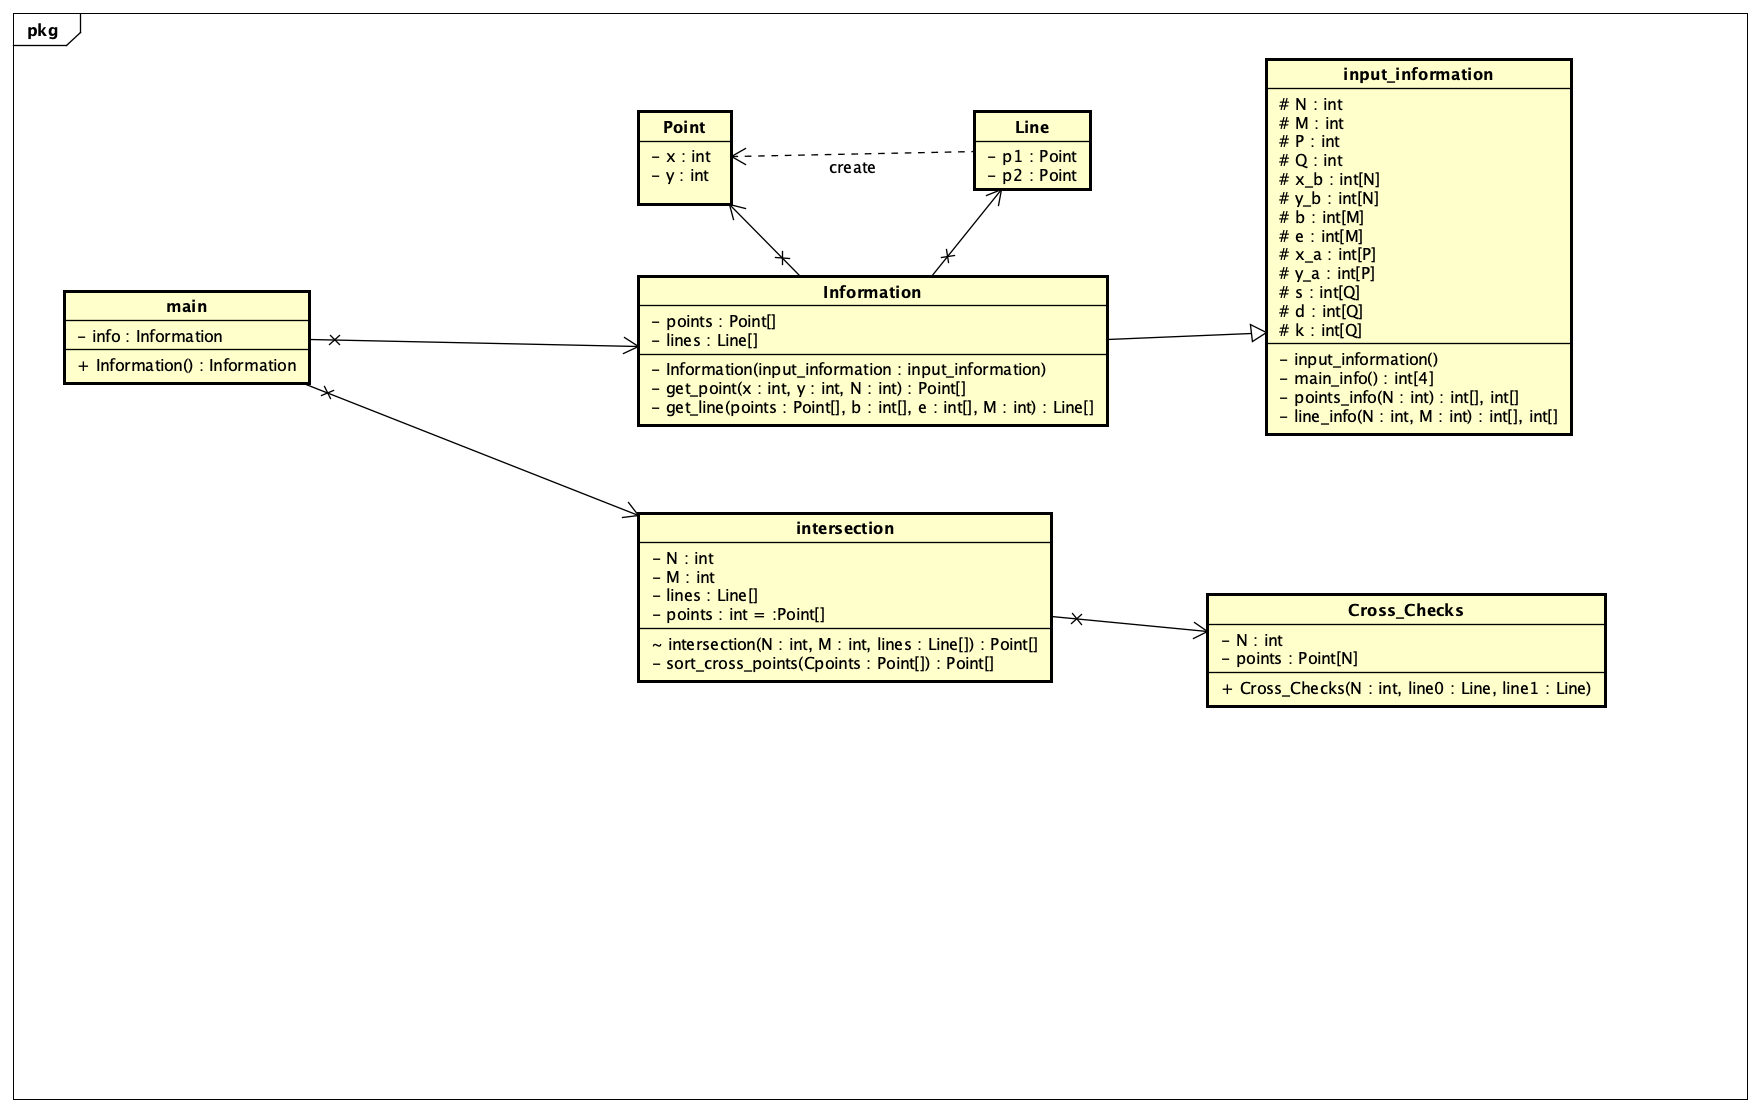
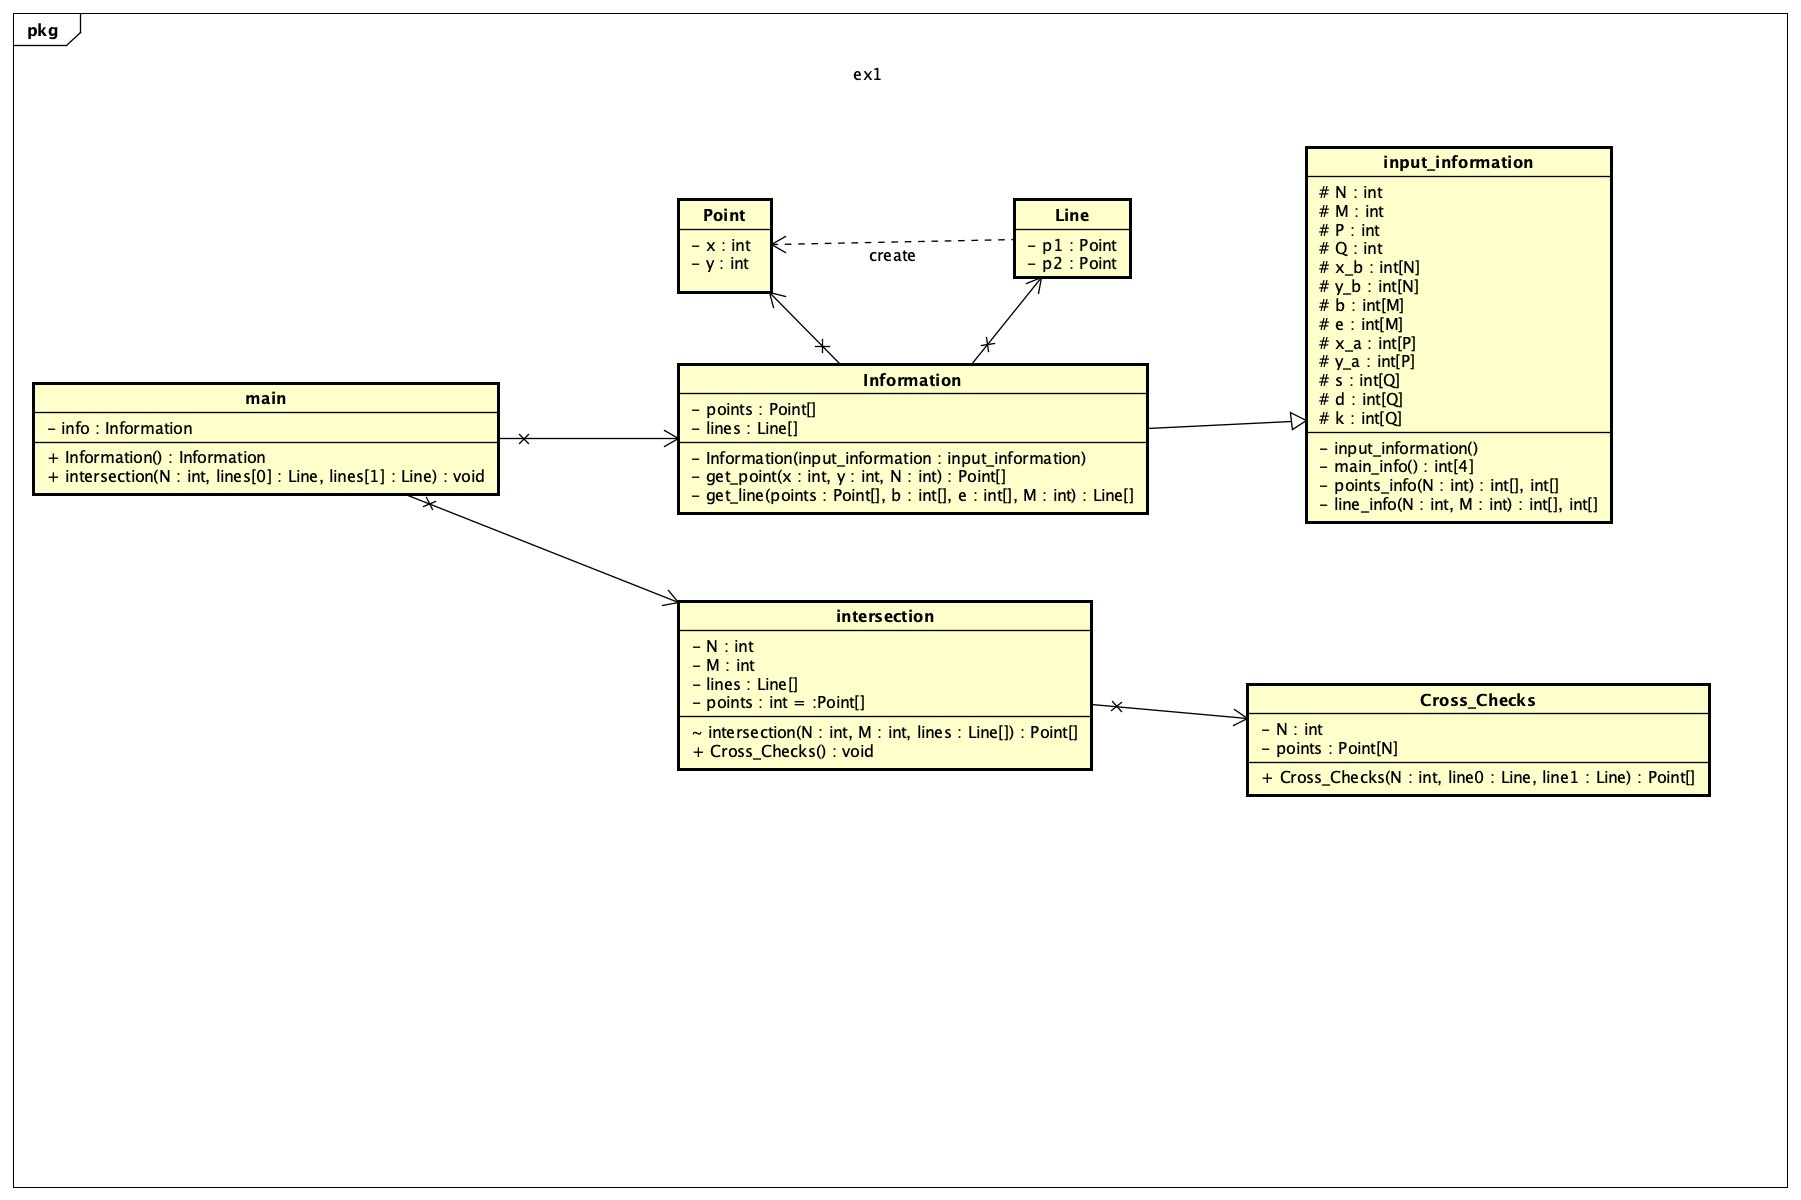
ブランチex1: ex1にもう一度、完成したプログラムとクラス図をアップロードしました。

diff --git a/src/intersection.py b/src/intersection.py
@@ -15,86 +15,12 @@ import Cross_Checks
 import Point
 import Line
 
-def quickSort(A, p, r):
-    if p < r:
-        q = partition(A, p, r)
-        quickSort(A, p, q - 1)
-        quickSort(A, q+1, r)
-
-    return A
-def partition(A, p, r):
-    x = A[r]
-    i = p-1
-    for j in range(p, r): # p to r-1
-        if A[j] <= x:
-            i += 1
-            # change
-            tmp = A[i]
-            A[i] = A[j]
-            A[j] = tmp
-        # already, devided
-    #change
-    tmp = A[i+1]
-    A[i+1] = A[r]
-    A[r] = tmp
-
-    return i+1
 
 
 class intersection:
     # make the Cross Points
-    def intersection(N, M ,lines):
-        Cpoints = [] # Cross Points
-        for i in range(0, M-1):
-            for j in range(i+1, M):
-                check = Cross_Checks.Cross_Checks.Cross_Checks(N, lines[i], lines[j])
-                if check is None:
-                    continue
-                Cpoints.append(check) # for assignment 1
-
-        # sort and return
-        Cpoints = intersection.sort_cross_points(Cpoints)
-        return Cpoints
-
-    # Sort to x orders
-    @classmethod
-    def sort_cross_points(self, Cpoints):
-        # sort by a element x
-        Cpoints = intersection.sort_by_X(Cpoints)
-        #Cpoints = intersection.sort_by_Y(Cpoints)
-
-        return Cpoints
-
-    # a part of sort_cross_points, sort by x
-    @classmethod
-    def sort_by_X(self, Cpoints):
-        # get x info
-        X = []
-        for i in range(len(Cpoints)):
-            X.append(Cpoints[i].x)
-
-        # sort X
-        X = quickSort(X, 0, len(X)-1)
-
-        # adjust X to Cpoints
-        fixed_points = []
-        for i in range(len(Cpoints)):
-            for j in range(len(X)):
-                if X[i] == Cpoints[j].x:
-                    fixed_points.append(Cpoints[j])
-
-        return fixed_points
-    def sort_by_Y(self, Cpoints):
-        # get y info
-        Y = []
-        for i in range(len(Cpoints)):
-            Y.append(Cpoints.y)
-
-        for i in range(len(Cpoints)):
-            c = False
-            if Cpoints[i].x == Cpoints[i+1].x:
-                c = True
-
+    def intersection(N, line1, line2):
+         Cross_Checks.Cross_Checks.Cross_Checks(N, line1, line2)
 
 
 
@@ -120,8 +46,5 @@ if __name__ == '__main__':
     lines.append(Line.Line(p2, p5)) #3
 
 
-    points = intersection.intersection(N, M, lines)
-    for i in range(len(points)):
-        print(points[i].x, points[i].y)
-
-        """
+    intersection.intersection(N, lines[0], lines[2])
+"""

diff --git a/src/Cross_Checks.py b/src/Cross_Checks.py
@@ -5,9 +5,11 @@
         line0 and line1 intersect or not
                                             """
 import Line
+# only for debug
+import Point
 
 class Cross_Checks:
-    def __init__(self, N, line0, line1):
+    def Cross_Checks( N, line0, line1):
             intersection = False #judge intersection
             if N == 3: # when N = 3, no intersection
                 print("NA")

diff --git a/src/main.py b/src/main.py
@@ -3,4 +3,5 @@ import intersection
 
 if __name__ == '__main__':
     info = information.information()
-    intersection.intersection(info.N, info.lines[0], info.lines[1])
+
+    intersection.intersection.intersection(info.N, info.lines[0], info.lines[1])
